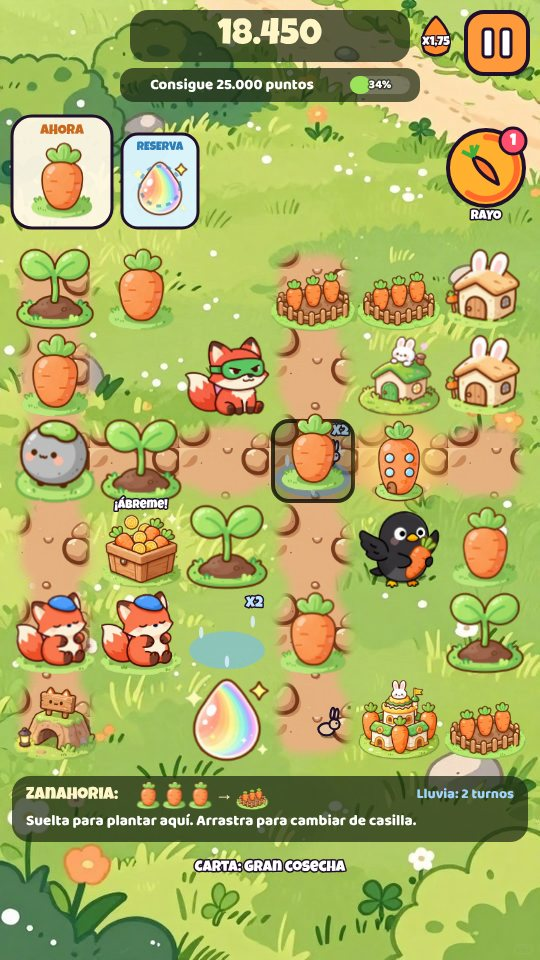
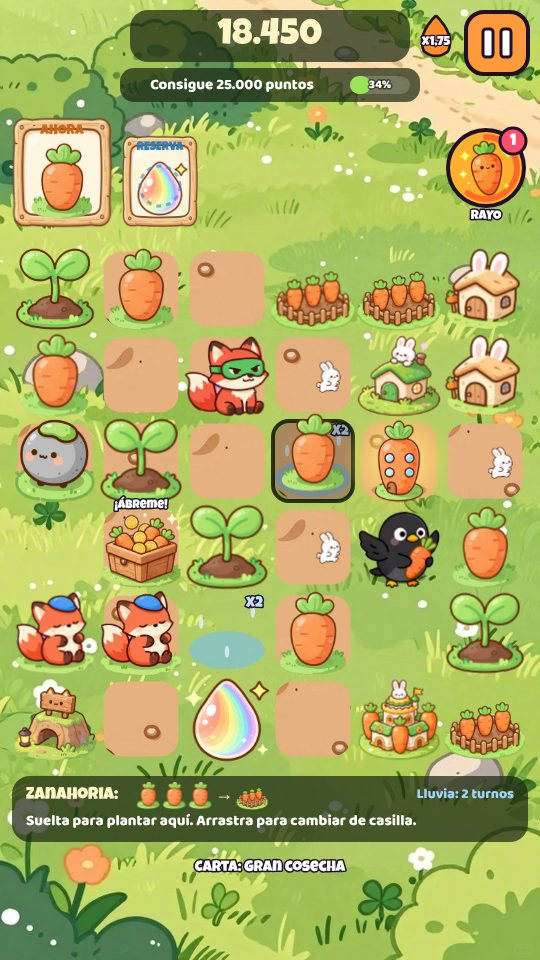
alfa b583264: Fans of Merge: cada casilla del camino es su propia losa; conejitos, marcos, ray

diff --git a/alfa/index.html b/alfa/index.html
@@ -10,10 +10,10 @@
 <link rel="preconnect" href="https://fonts.googleapis.com">
 <link rel="preconnect" href="https://fonts.gstatic.com" crossorigin>
 <link rel="stylesheet" href="https://fonts.googleapis.com/css2?family=Baloo+2:wght@600;700;800&family=Luckiest+Guy&display=swap">
-<link rel="stylesheet" href="core/css/base.css?v=8bcc93f">
-<link rel="stylesheet" href="biblioteca/tienda.css?v=8bcc93f">
-<link rel="stylesheet" href="novedades/ventana.css?v=8bcc93f">
-<link rel="stylesheet" href="biblioteca/votos.css?v=8bcc93f">
+<link rel="stylesheet" href="core/css/base.css?v=b583264">
+<link rel="stylesheet" href="biblioteca/tienda.css?v=b583264">
+<link rel="stylesheet" href="novedades/ventana.css?v=b583264">
+<link rel="stylesheet" href="biblioteca/votos.css?v=b583264">
 <style>
   /* la entrada de la web: una tarjeta por juego, con los colores y las letras de core */
   body { overflow: auto; touch-action: auto; align-items: flex-start; background-repeat: no-repeat; background-attachment: fixed; }
@@ -61,7 +61,7 @@
 </style>
 </head>
 <body>
-<script src="menu.js?v=8bcc93f" data-base="" data-core="1" data-pagina=""></script>
+<script src="menu.js?v=b583264" data-base="" data-core="1" data-pagina=""></script>
 <div class="nov-fondo" id="novedades" hidden>
   <div class="nov-caja" role="dialog" aria-modal="true" aria-labelledby="nov-titulo">
     <div class="nov-cabeza"><h2 class="ol" id="nov-titulo">NOVEDADES</h2><p id="nov-sub"></p></div>
@@ -333,8 +333,8 @@
   </section>
   <p class="note" id="pie-fansof">Fans Of™ · © 2026 Arkioner y Pepins · MicroBlizz · Todos los derechos reservados</p>
 </main>
-<script src="core/js/nucleo.js?v=0-a624.8bcc93f"></script>
-<script src="core/js/novedades.js?v=8bcc93f"></script>
+<script src="core/js/nucleo.js?v=0-a625.b583264"></script>
+<script src="core/js/novedades.js?v=b583264"></script>
 <script>
 // La cuenta de la web es la misma de los juegos (core/js/sistema/cuenta.js, mismo navegador = misma sesión). Aquí no hay partida que subir.
 const AJUSTES = { id: 'web', guardado: 'fansof-web' }, SAVE_KEY = AJUSTES.guardado, SAVE = {};
@@ -343,7 +343,7 @@ const HOOKS = {};
 function hook(name, fn) { (HOOKS[name] = HOOKS[name] || []).push(fn); }
 function fire(name, ...a) { let out = ''; for (const fn of HOOKS[name] || []) { const r = fn(...a); if (typeof r === 'string') out += r; } return out; }
 </script>
-<script src="core/js/sistema/cuenta.js?v=8bcc93f"></script>
+<script src="core/js/sistema/cuenta.js?v=b583264"></script>
 <script>NUCLEO.idiomaSolo({ en: ['core/idioma/en-raiz.js', 'novedades/en.js', 'biblioteca/en.js','games/rumble/idioma/en-7.js', 'games/td/idioma/en-2.js', 'games/survivors/idioma/en.js', 'games/crush/idioma/en-raiz.js', 'games/jump/idioma/en-raiz.js', 'games/taxi/idioma/en-raiz.js', 'games/dark/idioma/en-raiz.js', 'games/nova/idioma/en-raiz.js', 'demos/beams/idioma/en-raiz.js', 'demos/snakes/idioma/en-raiz.js', 'demos/merge/idioma/en-raiz.js', 'demos/swipe/idioma/en-raiz.js', 'demos/vikings/idioma/en-raiz.js', 'demos/goose/idioma/en-raiz.js', 'demos/asalto/idioma/en-raiz.js', 'demos/auto/idioma/en-raiz.js', 'games/island/idioma/en-raiz.js', 'demos/rumble-3d/idioma/en-raiz.js', 'demos/roguelite/idioma/en-raiz.js', 'demos/tactics-advance/idioma/en-raiz.js', 'games/rouflage/idioma/en-raiz.js', 'demos/dungeons/idioma/en-raiz.js', 'games/karts/idioma/en-raiz.js', 'demos/recruit/idioma/en-raiz.js', 'demos/terminal-shock/idioma/en-raiz.js', 'games/ratkov/idioma/en-raiz.js'] })</script>
 <script>
 // La versión y las novedades salen de los archivos de cada juego, así que esta página nunca se queda atrás.
@@ -369,14 +369,14 @@ const fail = id => () => {
 };
 
 </script>
-<script src="core/js/proximamente.js?v=8bcc93f"></script>
-<script src="novedades/ventana.js?v=8bcc93f"></script>
-<script src="biblioteca/tienda.js?v=8bcc93f"></script>
-<script src="core/js/sistema/beta.js?v=8bcc93f"></script>
-<script src="biblioteca/cuenta-web.js?v=8bcc93f"></script>
-<script src="biblioteca/votos.js?v=8bcc93f"></script>
-<script src="biblioteca/alfa.js?v=8bcc93f"></script>
-<script src="core/js/sistema/analitica.js?v=8bcc93f"></script>
-<script src="pie.js?v=8bcc93f" defer></script>
+<script src="core/js/proximamente.js?v=b583264"></script>
+<script src="novedades/ventana.js?v=b583264"></script>
+<script src="biblioteca/tienda.js?v=b583264"></script>
+<script src="core/js/sistema/beta.js?v=b583264"></script>
+<script src="biblioteca/cuenta-web.js?v=b583264"></script>
+<script src="biblioteca/votos.js?v=b583264"></script>
+<script src="biblioteca/alfa.js?v=b583264"></script>
+<script src="core/js/sistema/analitica.js?v=b583264"></script>
+<script src="pie.js?v=b583264" defer></script>
 </body>
 </html>

diff --git a/alfa/demos/merge/js/pintar.js b/alfa/demos/merge/js/pintar.js
@@ -113,7 +113,7 @@ function mgTirachinasIcono(c, x, y) {
 }
 
 /* ---------- el tablero: caminos de tierra, piezas, previsión ---------- */
-function mgPintaCaminos(c, t) {   // c no es const: el camino pintado se prepara una vez en otro lienzo con la misma forma
+function mgPintaCaminos(c, t) {
   const P = MG_P, cs = MG_V.cs, n = MG_CFG.lado, B = P.B, r = cs * 0.38, E = P.evento;
   const libre = (x, y) => mgDentro(x, y) && P.camino.has(y * 8 + x);   // el camino es fijo en cada partida: no cambia al poner piezas
   const forma = (pad) => {   // cada casilla libre es una mancha redonda, unida a las libres de al lado
@@ -126,22 +126,16 @@ function mgPintaCaminos(c, t) {   // c no es const: el camino pintado se prepara
       if (libre(x, y + 1)) c.rect(cx - r * 0.7 - pad, cy, (r * 0.7 + pad) * 2, cs);
     }
   };
-  if (MG_IMG.TIERRA) {   // el camino: la tierra pintada por Yoshi, con el borde difuminado para que se funda con la hierba (sin escalón)
-    const k = mgK(), clave = [k, MG_V.H, MG_CFG.lado, [...P.camino].join(','), MG_IMG.TIERRA.src].join('|');
-    if (MG_V.caminoClave !== clave) {
-      const W = Math.ceil(540 * k), H = Math.ceil(MG_V.H * k), tierra = document.createElement('canvas'), mascara = document.createElement('canvas');
-      tierra.width = mascara.width = W; tierra.height = mascara.height = H;
-      const tc = tierra.getContext('2d'), mc = mascara.getContext('2d');
-      tc.setTransform(k * 0.35, 0, 0, k * 0.35, 0, 0); tc.fillStyle = tc.createPattern(MG_IMG.TIERRA, 'repeat'); tc.fillRect(0, 0, 540 / 0.35, MG_V.H / 0.35);
-      mc.setTransform(k, 0, 0, k, 0, 0); mc.fillStyle = '#000';
-      const real = c; c = mc;
-      mc.filter = `blur(${Math.round(cs * 0.05 * k)}px)`; forma(cs * 0.02); mc.fill('nonzero');   // el borde, suave
-      mc.filter = 'none'; forma(-cs * 0.06); mc.fill('nonzero');                                     // el centro, lleno
-      c = real;
-      tc.setTransform(1, 0, 0, 1, 0, 0); tc.globalCompositeOperation = 'destination-in'; tc.drawImage(mascara, 0, 0);
-      MG_V.caminoLienzo = tierra; MG_V.caminoClave = clave;
+  const casillas = ['CASILLA1', 'CASILLA2', 'CASILLA3'].filter(k => MG_IMG[k]);
+  if (casillas.length || MG_IMG.TIERRA) {   // el camino: cada casilla es su propia losa de tierra pintada por Yoshi, separada de las demás
+    for (let y = 0; y < n; y++) for (let x = 0; x < n; x++) {
+      if (!libre(x, y)) continue;
+      const l = cs * 0.94, x0 = mgCx(x) - l / 2, y0 = mgCy(y) - l / 2;
+      if (casillas.length) { mgImg(c, casillas[(x * 7 + y * 3) % casillas.length], x0, y0, l, l); continue; }
+      c.save(); c.beginPath(); rrPath(c, x0 + 3, y0 + 3, l - 6, l - 6, l * 0.22); c.clip();   // mientras llegan las losas: un trozo de la tierra pintada
+      const im = MG_IMG.TIERRA, o = ((x * 37 + y * 53) % 5) * im.width * 0.1;
+      c.drawImage(im, o, o, im.width * 0.5, im.height * 0.5, x0, y0, l, l); c.restore();
     }
-    c.save(); c.setTransform(1, 0, 0, 1, 0, 0); c.drawImage(MG_V.caminoLienzo, 0, 0); c.restore();
   } else {
   forma(3); c.fillStyle = 'rgba(70,60,20,.45)'; c.fill('nonzero');
   forma(0); c.fillStyle = '#c9b46e'; c.fill('nonzero');

diff --git a/alfa/games/rouflage/index.html b/alfa/games/rouflage/index.html
@@ -10,7 +10,7 @@
 <link rel="preconnect" href="https://fonts.googleapis.com">
 <link rel="preconnect" href="https://fonts.gstatic.com" crossorigin>
 <link rel="stylesheet" href="https://fonts.googleapis.com/css2?family=Baloo+2:wght@600;700;800&family=Luckiest+Guy&display=swap">
-<script src="../../core/js/nucleo.js?v=0.2.62-a624.8bcc93f"></script>
+<script src="../../core/js/nucleo.js?v=0.2.62-a625.b583264"></script>
 <script>NUCLEO.estilos('../../core/css/base.css', '../../core/css/menus.css', '../../core/css/menus-extra.css')</script>
 <script>NUCLEO.estilos('estilo.css', 'estilo-taller.css', 'estilo-pantallas.css', 'estilo-pvp.css', 'estilo-armario.css', 'estilo-menus.css', 'estilo-misiones.css', 'estilo-escenario.css', 'estilo-votos.css', 'estilo-gacha.css', 'estilo-compra.css', 'estilo-fin.css', 'estilo-talentos.css', 'estilo-chat.css', 'estilo-titulo.css', 'estilo-barra.css', 'estilo-sala-viva.css', 'estilo-obra.css', 'estilo-ayuda.css', 'estilo-carga.css')</script>      <!-- la intro, la última: pisa el #carga de estilo.css (antes iba en línea dentro de #carga) -->
 </head>

diff --git a/alfa/demos/merge/js/sprites.js b/alfa/demos/merge/js/sprites.js
@@ -9,7 +9,7 @@ const SPRITES = {
   zorro: 'img/zorro.png', cuervo: 'img/cuervo.png', semilla: 'img/semilla.png', topo: 'img/topo.png',
   FONDO: 'img/fondo.jpg', BUNNY: 'img/bunny.png',
   // el escenario y la interfaz, también pintados por Yoshi: suelo (textura que se repite), camino, conejito, iconos, charco y marco
-  SUELO: 'img/suelo.jpg', TIERRA: 'img/tierra.jpg', CAMINO: 'img/camino.png', CONEJITO: 'img/conejito.png', RAYO: 'img/rayo.png', TIRACHINAS: 'img/tirachinas.png',
+  SUELO: 'img/suelo.jpg', TIERRA: 'img/tierra.jpg', CASILLA1: 'img/casilla-1.png', CASILLA2: 'img/casilla-2.png', CASILLA3: 'img/casilla-3.png', CAMINO: 'img/camino.png', CONEJITO: 'img/conejito.png', RAYO: 'img/rayo.png', TIRACHINAS: 'img/tirachinas.png',
   FLECHA: 'img/flecha.png', CHARCO: 'img/charco.png', MARCO: 'img/marco.png',
   CHISPA: 'img/chispa.png', HOJA: 'img/hoja.png', RELAMPAGO: 'img/relampago.png', ESTRELLA: 'img/estrella.png', TABLON: 'img/tablon.png', BOTON: 'img/boton.png', LOGO: 'img/logo.png',
 };

diff --git a/alfa/games/karts/index.html b/alfa/games/karts/index.html
@@ -8,7 +8,7 @@
 <meta name="description" content="Fans of Karts (juego): carreras de karts en pixel art de consola portátil con los líderes de Fans of Rumble. Tres pistas, seis pilotos, objetos con mala idea y Microblizz, que ha comprado la carrera.">
 <link rel="icon" type="image/png" href="img/icon-192.png">
 <link rel="apple-touch-icon" href="img/icon-192.png">
-<script src="../../core/js/nucleo.js?v=0.7.13-a624.8bcc93f"></script>
+<script src="../../core/js/nucleo.js?v=0.7.13-a625.b583264"></script>
 <script>NUCLEO.estilos('../../core/css/base.css', '../../core/css/menus.css', '../../core/css/menus-tienda.css', '../../core/css/menus-extra.css', 'css/tienda.css', 'css/pvp.css')</script>
 <link rel="stylesheet" href="https://fonts.googleapis.com/css2?family=Baloo+2:wght@600;700;800&family=Luckiest+Guy&display=swap">
 <style>

diff --git a/alfa/games/dark/index.html b/alfa/games/dark/index.html
@@ -12,7 +12,7 @@
 <link rel="stylesheet" href="https://fonts.googleapis.com/css2?family=Baloo+2:wght@600;700;800&family=Luckiest+Guy&family=Press+Start+2P&family=Pixelify+Sans:wght@400;600;700&display=swap">
 <link rel="stylesheet" href="css/dark.css?v=0.2.4">
 <!-- Prototipo: no usa NUCLEO (tiene su propia partida guardada). Carga de core el arte, la música, los efectos y las cifras del Rumble.
-     VERSIÓN para desplegar.py (que la busca así): nucleo.js?v=0.2.7-a624.8bcc93f' (aquí solo se anota; súbela junto al ?v= de los scripts). -->
+     VERSIÓN para desplegar.py (que la busca así): nucleo.js?v=0.2.7-a625.b583264' (aquí solo se anota; súbela junto al ?v= de los scripts). -->
 </head>
 <body>
 <canvas id="cv" aria-label="Mazmorra"></canvas>

diff --git a/alfa/games/rumble/index.html b/alfa/games/rumble/index.html
@@ -16,7 +16,7 @@
 <link rel="preconnect" href="https://fonts.gstatic.com" crossorigin>
 <link rel="stylesheet" href="https://fonts.googleapis.com/css2?family=Baloo+2:wght@600;700;800&family=Luckiest+Guy&display=swap">
 <!-- core/js/nucleo.js carga lo común y el juego. LA VERSIÓN SE ESCRIBE SOLO AQUÍ, en su ?v= -->
-<script src="../../core/js/nucleo.js?v=0.9.156-a624.8bcc93f"></script>
+<script src="../../core/js/nucleo.js?v=0.9.156-a625.b583264"></script>
 <script>NUCLEO.estilos('../../core/css/menus.css', 'css/estilos-partida.css', 'css/estilos-extra.css', 'css/arena.css', '../../core/css/biblioteca.css', 'css/facciones-y-jefes.css', '../../core/css/clasificacion.css', 'css/frases.css', 'css/mitica.css', 'css/paletas.css')</script>
 
 </head>

diff --git a/alfa/games/jump/index.html b/alfa/games/jump/index.html
@@ -12,7 +12,7 @@
 <link rel="preconnect" href="https://fonts.gstatic.com" crossorigin>
 <link rel="stylesheet" href="https://fonts.googleapis.com/css2?family=Baloo+2:wght@600;700;800&family=Luckiest+Guy&display=swap">
 <!-- ?v= es la versión del juego (la misma en la web y en la app): súbela al publicar y pon su entrada en js/novedades.js -->
-<script src="../../core/js/nucleo.js?v=0.3.14-a624.8bcc93f"></script>
+<script src="../../core/js/nucleo.js?v=0.3.14-a625.b583264"></script>
 <script>NUCLEO.estilos('../../core/css/base.css', '../../core/css/menus.css')</script>
 <style>
 /* Fans of Jump: un solo canvas a la resolución real de la pantalla, con los dibujos 3D. El mundo mide unos 200 de ancho y se

diff --git a/alfa/games/decks/index.html b/alfa/games/decks/index.html
@@ -15,7 +15,7 @@
 <link rel="preconnect" href="https://fonts.gstatic.com" crossorigin>
 <link rel="stylesheet" href="https://fonts.googleapis.com/css2?family=Baloo+2:wght@600;700;800&family=Luckiest+Guy&display=swap">
 <!-- core/js/nucleo.js carga lo común y el juego. LA VERSIÓN SE ESCRIBE SOLO AQUÍ, en su ?v= -->
-<script src="../../core/js/nucleo.js?v=0.2.19-a624.8bcc93f"></script>
+<script src="../../core/js/nucleo.js?v=0.2.19-a625.b583264"></script>
 <script>NUCLEO.estilos('../../core/css/base.css', '../../core/css/menus.css', 'css/decks.css', 'css/decks-reunion.css', 'css/decks-anim.css', 'css/decks-campana.css', 'css/decks-lideres.css')</script>
 </head>
 <body>

diff --git a/alfa/demos/goose/index.html b/alfa/demos/goose/index.html
@@ -10,7 +10,7 @@
 <link rel="preconnect" href="https://fonts.gstatic.com" crossorigin>
 <link rel="stylesheet" href="https://fonts.googleapis.com/css2?family=Pixelify+Sans:wght@500;700&family=Pirata+One&display=swap">
 <!-- ?v= es la versión de la demo: súbela al publicar -->
-<script src="../../core/js/nucleo.js?v=0.3.0-a624.8bcc93f"></script>
+<script src="../../core/js/nucleo.js?v=0.3.0-a625.b583264"></script>
 <script>NUCLEO.estilos('../../core/css/base.css', '../../core/css/menus.css')</script>
 <style>
 /* Fans of Goose: un solo canvas en vertical, a la resolución real del móvil. El mundo mide 200 de ancho. */

diff --git a/alfa/games/ratkov/index.html b/alfa/games/ratkov/index.html
@@ -13,7 +13,7 @@
 <link rel="preconnect" href="https://fonts.gstatic.com" crossorigin>
 <link rel="stylesheet" href="https://fonts.googleapis.com/css2?family=VT323&family=Russo+One&display=swap">
 <script src="https://cdnjs.cloudflare.com/ajax/libs/three.js/r128/three.min.js"></script>
-<script src="../../core/js/nucleo.js?v=0.2.27-a624.8bcc93f"></script>
+<script src="../../core/js/nucleo.js?v=0.2.27-a625.b583264"></script>
 <script>NUCLEO.estilos('../../core/css/base.css', '../../core/css/menus.css')</script>
 <link rel="stylesheet" href="estilo.css?v=0.2.3">
 <link rel="stylesheet" href="estilo-refugio.css?v=0.2.3">

diff --git a/alfa/games/survivors/index.html b/alfa/games/survivors/index.html
@@ -15,7 +15,7 @@
 <link rel="preconnect" href="https://fonts.gstatic.com" crossorigin>
 <link rel="stylesheet" href="https://fonts.googleapis.com/css2?family=Baloo+2:wght@600;700;800&family=Luckiest+Guy&display=swap">
 <!-- core/js/nucleo.js carga lo común y el juego. LA VERSIÓN SE ESCRIBE SOLO AQUÍ, en su ?v= -->
-<script src="../../core/js/nucleo.js?v=0.1.69-a624.8bcc93f"></script>
+<script src="../../core/js/nucleo.js?v=0.1.69-a625.b583264"></script>
 <script>NUCLEO.estilos('../../core/css/base.css', '../../core/css/menus.css', 'css/survivors.css', '../../core/css/biblioteca.css')</script>
 </head>
 <body>
